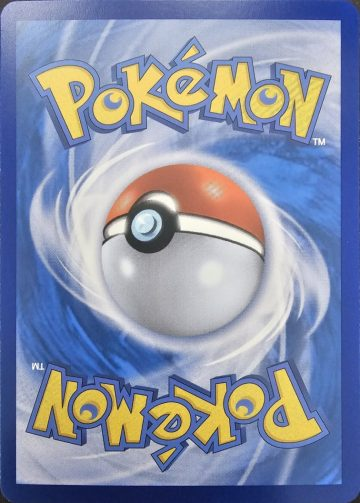
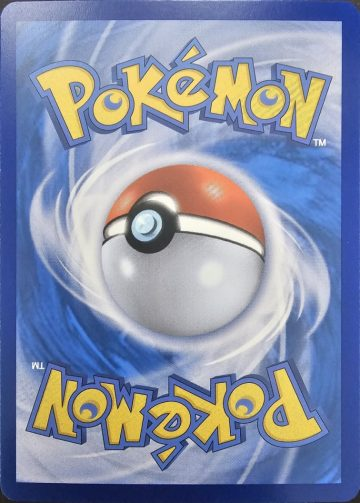
피카츄ex SAR 127 두 장 다시 자르기: 네 변을 직선으로 맞춰 오른쪽 아래 비스듬한 경계 바로잡음
Claude-Session: https://claude.ai/code/session_01RBaUrtCQrJRBZVyGNXAgRs

diff --git a/cards.js b/cards.js
@@ -1,5 +1,5 @@
 window.CARD_DATA = {
- "generated": "2026-11-24 20:05",
+ "generated": "2026-11-24 20:09",
  "decks": [
   {
    "name": "내 덱",
@@ -490,15 +490,15 @@ window.CARD_DATA = {
        "reprint": false,
        "centering": {
         "front": {
-         "lr_text": "50.1/49.9 (좌/우)",
-         "tb_text": "47.8/52.2 (상/하)",
-         "ratio_lr": 50.1,
-         "ratio_tb": 52.2,
+         "lr_text": "51.0/49.0 (좌/우)",
+         "tb_text": "51.1/48.9 (상/하)",
+         "ratio_lr": 51.0,
+         "ratio_tb": 51.1,
          "border_mm": {
-          "left": 2.58,
-          "top": 2.61,
-          "right": 2.57,
-          "bottom": 2.86
+          "left": 2.57,
+          "top": 2.49,
+          "right": 2.46,
+          "bottom": 2.38
          },
          "confidence": "medium",
          "source": "auto",
@@ -507,15 +507,15 @@ window.CARD_DATA = {
          "measured": "2026-11-24"
         },
         "back": {
-         "lr_text": "45.3/54.7 (좌/우)",
-         "tb_text": "52.4/47.6 (상/하)",
-         "ratio_lr": 54.7,
-         "ratio_tb": 52.4,
+         "lr_text": "45.8/54.2 (좌/우)",
+         "tb_text": "51.3/48.7 (상/하)",
+         "ratio_lr": 54.2,
+         "ratio_tb": 51.3,
          "border_mm": {
           "left": 2.79,
-          "top": 3.36,
-          "right": 3.37,
-          "bottom": 3.05
+          "top": 3.48,
+          "right": 3.3,
+          "bottom": 3.3
          },
          "confidence": "high",
          "source": "auto",
@@ -543,7 +543,9 @@ window.CARD_DATA = {
           "grade": "Gem Mint 10",
           "limited_by": "front tb",
           "verified": true,
-          "near_boundary": []
+          "near_boundary": [
+           "front tb 51.1 — Pristine 10 기준 51까지 0.1%p 차이"
+          ]
          },
          "bgs": {
           "name": "BGS (센터링 서브그레이드)",
@@ -561,7 +563,118 @@ window.CARD_DATA = {
          }
         }
        },
-       "condition": null,
+       "condition": {
+        "back": {
+         "findings": [
+          {
+           "id": 1,
+           "kind": "edge_whitening",
+           "side": "top",
+           "x": 42.22,
+           "y": 0.09,
+           "r": 1.59,
+           "text": "위쪽 옆면, 왼쪽에서 26.6mm: 흰 점, 길이 0.3mm, 안쪽으로 0.15mm"
+          },
+          {
+           "id": 2,
+           "kind": "edge_whitening",
+           "side": "top",
+           "x": 68.53,
+           "y": 0.06,
+           "r": 1.59,
+           "text": "위쪽 옆면, 왼쪽에서 43.2mm: 흰 점, 길이 0.1mm, 안쪽으로 0.10mm"
+          },
+          {
+           "id": 3,
+           "kind": "border_spot",
+           "side": "right",
+           "x": 96.59,
+           "y": 48.18,
+           "r": 1.59,
+           "text": "오른쪽 테두리, 위에서 42.4mm, 가장자리에서 2.1mm 안쪽: 흰 점, 크기 0.10mm. 인쇄 점이나 찍힘일 수 있고, 먼지라면 불어 내고 다시 찍으면 사라져요"
+          },
+          {
+           "id": 4,
+           "kind": "edge_whitening",
+           "side": "bottom",
+           "x": 19.76,
+           "y": 99.91,
+           "r": 1.59,
+           "text": "아래쪽 옆면, 왼쪽에서 12.4mm: 흰 점, 길이 0.1mm, 안쪽으로 0.10mm"
+          }
+         ],
+         "suspects": [
+          {
+           "id": "R1",
+           "kind": "reflection",
+           "side": "tl",
+           "x": 2.4,
+           "y": 1.3,
+           "r": 3.61,
+           "text": "왼쪽 위 모서리: 끝에 흰 부분(0.78mm²)이 있지만 모서리 테두리 전체가 밝게 찍혔어요(100%). 조명 반사일 가능성이 커요. 조명 방향을 바꿔 다시 찍어 확인하세요"
+          },
+          {
+           "id": "R2",
+           "kind": "reflection",
+           "side": "br",
+           "x": 99.62,
+           "y": 98.15,
+           "r": 3.66,
+           "text": "오른쪽 아래 모서리: 배경 천의 결이 카드 가장자리에 붙어 잡혀서 모양을 판정할 수 없어요. 무늬 없는 천 위에서 다시 찍거나 루페로 확인하세요"
+          },
+          {
+           "id": "R3",
+           "kind": "reflection",
+           "side": "top",
+           "x": 17.02,
+           "y": 0.23,
+           "r": 1.59,
+           "text": "위쪽 옆면, 왼쪽에서 10.7mm: 테두리 안쪽(0.8~2.5mm)까지 같이 밝아요. 흰 점보다 조명 반사일 가능성이 커요"
+          },
+          {
+           "id": "R4",
+           "kind": "reflection",
+           "side": "top",
+           "x": 21.03,
+           "y": 0.23,
+           "r": 1.59,
+           "text": "위쪽 옆면, 왼쪽에서 13.2mm: 테두리 안쪽(0.8~2.5mm)까지 같이 밝아요. 흰 점보다 조명 반사일 가능성이 커요"
+          },
+          {
+           "id": "R5",
+           "kind": "reflection",
+           "side": "bottom",
+           "x": 84.84,
+           "y": 98.27,
+           "r": 10.67,
+           "text": "아래쪽 옆면, 왼쪽에서 53.5mm 근처 12mm 구간: 테두리가 넓게 밝게 찍혔어요(조명 반사). 여기서는 흰 점이 가려지거나 반대로 흰 점처럼 보일 수 있어서, 조명 방향을 바꿔 다시 찍어 확인하세요"
+          },
+          {
+           "id": "R6",
+           "kind": "reflection",
+           "side": "left",
+           "x": 0.0,
+           "y": 50.0,
+           "r": 11.96,
+           "text": "왼쪽 옆면: 잘린 면 전체가 빛을 받아 밝게 찍혀서 흰 점을 가려낼 수 없어요. 조명을 반대쪽에서 비추고 다시 찍으면 확인할 수 있어요"
+          },
+          {
+           "id": "R7",
+           "kind": "reflection",
+           "side": "left",
+           "x": 2.38,
+           "y": 12.24,
+           "r": 12.68,
+           "text": "왼쪽 옆면, 위에서 10.8mm 근처 14mm 구간: 테두리가 넓게 밝게 찍혔어요(조명 반사). 여기서는 흰 점이 가려지거나 반대로 흰 점처럼 보일 수 있어서, 조명 방향을 바꿔 다시 찍어 확인하세요"
+          }
+         ],
+         "notes": [
+          "가장자리 0.1mm 안쪽에만 걸친 아주 얇은 밝은 점 25곳은 뺐어요. 잘린 면의 반사나 천 보풀과 구분이 안 되는 크기예요. 루페로 직접 보면 확인할 수 있어요"
+         ],
+         "warnings": [],
+         "checked": "2026-11-24"
+        }
+       },
        "thumb": {
         "front": "thumbs/01-내 덱/01-30주년 확장팩/005-피카츄ex SAR 127-front.jpg",
         "back": "thumbs/01-내 덱/01-30주년 확장팩/005-피카츄ex SAR 127-back.jpg"
@@ -577,15 +690,15 @@ window.CARD_DATA = {
        "reprint": false,
        "centering": {
         "front": {
-         "lr_text": "50.2/49.8 (좌/우)",
-         "tb_text": "50.3/49.7 (상/하)",
-         "ratio_lr": 50.2,
-         "ratio_tb": 50.3,
+         "lr_text": "50.5/49.5 (좌/우)",
+         "tb_text": "47.9/52.1 (상/하)",
+         "ratio_lr": 50.5,
+         "ratio_tb": 52.1,
          "border_mm": {
-          "left": 2.61,
-          "top": 2.67,
-          "right": 2.59,
-          "bottom": 2.64
+          "left": 2.55,
+          "top": 2.5,
+          "right": 2.5,
+          "bottom": 2.72
          },
          "confidence": "medium",
          "source": "auto",
@@ -594,15 +707,15 @@ window.CARD_DATA = {
          "measured": "2026-11-24"
         },
         "back": {
-         "lr_text": "48.7/51.3 (좌/우)",
-         "tb_text": "50.6/49.4 (상/하)",
-         "ratio_lr": 51.3,
-         "ratio_tb": 50.6,
+         "lr_text": "48.2/51.8 (좌/우)",
+         "tb_text": "52.4/47.6 (상/하)",
+         "ratio_lr": 51.8,
+         "ratio_tb": 52.4,
          "border_mm": {
-          "left": 2.99,
-          "top": 3.24,
-          "right": 3.16,
-          "bottom": 3.16
+          "left": 2.95,
+          "top": 3.36,
+          "right": 3.18,
+          "bottom": 3.06
          },
          "confidence": "high",
          "source": "auto",
@@ -623,18 +736,15 @@ window.CARD_DATA = {
           "grade": "Gem Mint 10",
           "limited_by": "front tb",
           "verified": true,
-          "near_boundary": [
-           "front tb 50.3 — Pristine 10 기준 50까지 0.3%p 차이"
-          ]
+          "near_boundary": []
          },
          "tag": {
           "name": "TAG",
-          "grade": "Pristine 10",
-          "limited_by": null,
+          "grade": "Gem Mint 10",
+          "limited_by": "front tb",
           "verified": true,
           "near_boundary": [
-           "front tb 50.3 — Pristine 10 기준 51에 0.7%p 여유뿐",
-           "back lr 51.3 — Pristine 10 기준 52에 0.7%p 여유뿐"
+           "back tb 52.4 — Pristine 10 기준 52까지 0.4%p 차이"
           ]
          },
          "bgs": {
@@ -642,9 +752,7 @@ window.CARD_DATA = {
           "grade": "9.5",
           "limited_by": "front tb",
           "verified": false,
-          "near_boundary": [
-           "front tb 50.3 — 10 기준 50까지 0.3%p 차이"
-          ]
+          "near_boundary": []
          },
          "brg": {
           "name": "BRG",
